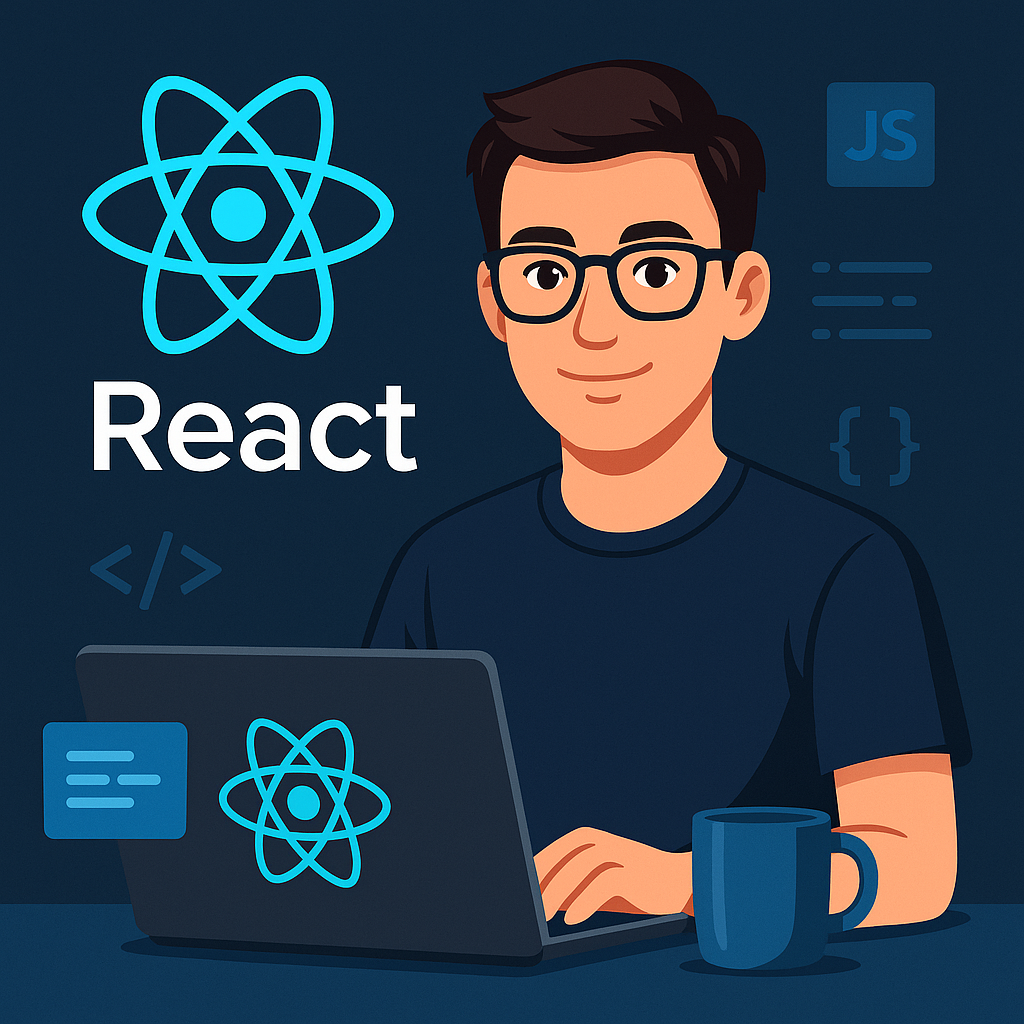
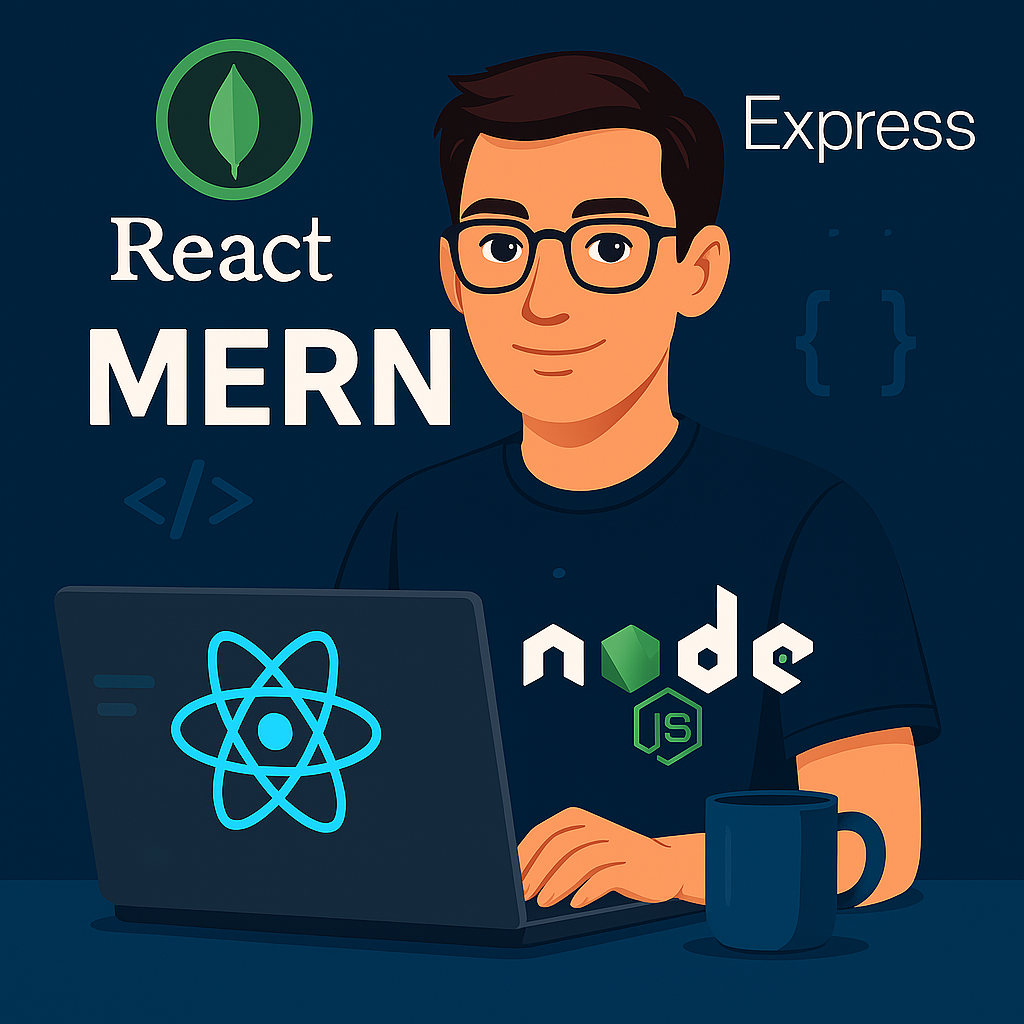
update profile picture on home section

diff --git a/src/components/herosection.jsx b/src/components/herosection.jsx
@@ -108,19 +108,24 @@ function HeroSection() {
         </motion.div>
 
         {/* Right image */}
-        <motion.div
-          initial={{ opacity: 0, y: 50 }}
-          animate={{ opacity: 1, y: 0 }}
-          transition={{ duration: 0.8, ease: "easeOut" }}
-          className="md:w-1/2 flex justify-center"
-        >
-          <img
-            src={profilePic}
-            alt="Asrar Uddin Profile"
-            className="w-64 h-64 rounded-full shadow-2xl border-4 border-blue-400 object-cover transform transition duration-500 hover:scale-105 hover:-translate-y-1"
-            loading="lazy"
-          />
-        </motion.div>
+       <motion.div
+  initial={{ opacity: 0, scale: 0.95 }}
+  animate={{ opacity: 1, scale: 1 }}
+  transition={{ duration: 0.6, ease: "easeOut" }}
+  className="md:w-1/2 flex justify-center"
+>
+  <div className="relative border border-blue-600 shadow-md rounded-xl bg-gradient-to-br from-gray-800 to-gray-900 p-1 transition-all duration-300 hover:shadow-lg hover:border-blue-400">
+    <img
+      src={profilePic}
+      alt="Asrar Uddin Profile"
+      className="w-72 h-72 sm:w-80 sm:h-80 object-cover rounded-md"
+      loading="lazy"
+    />
+  </div>
+</motion.div>
+
+
+
       </div>
 
      
